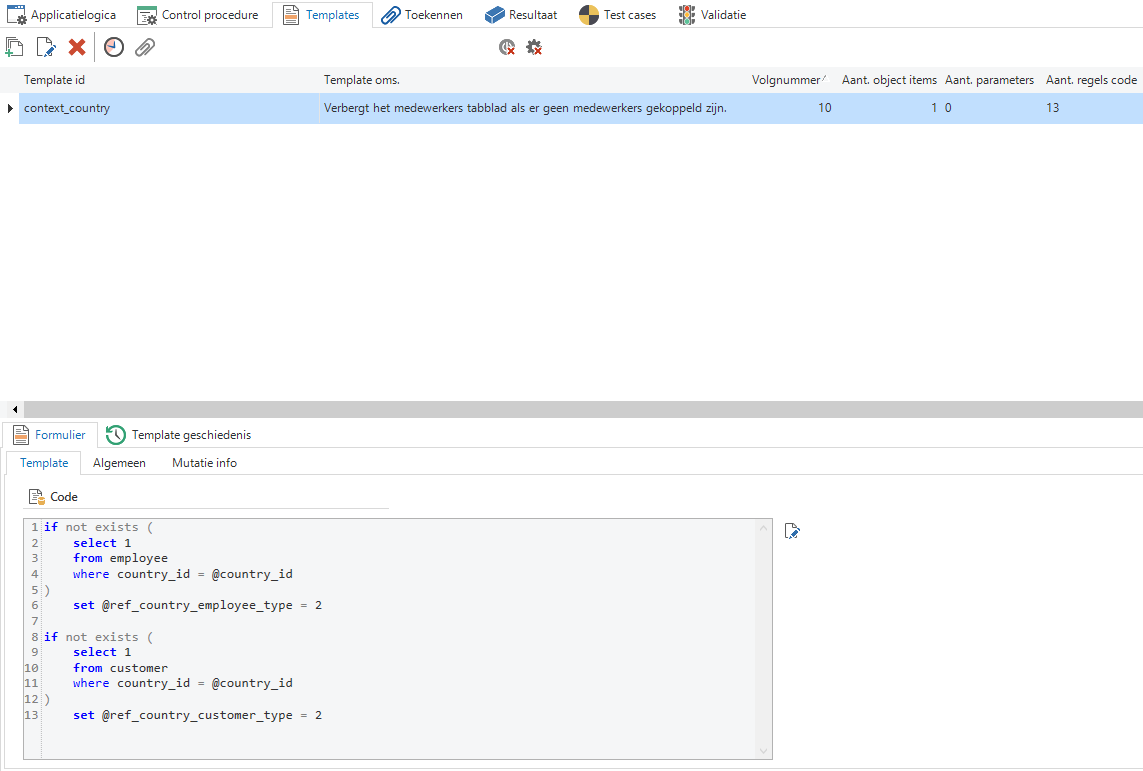
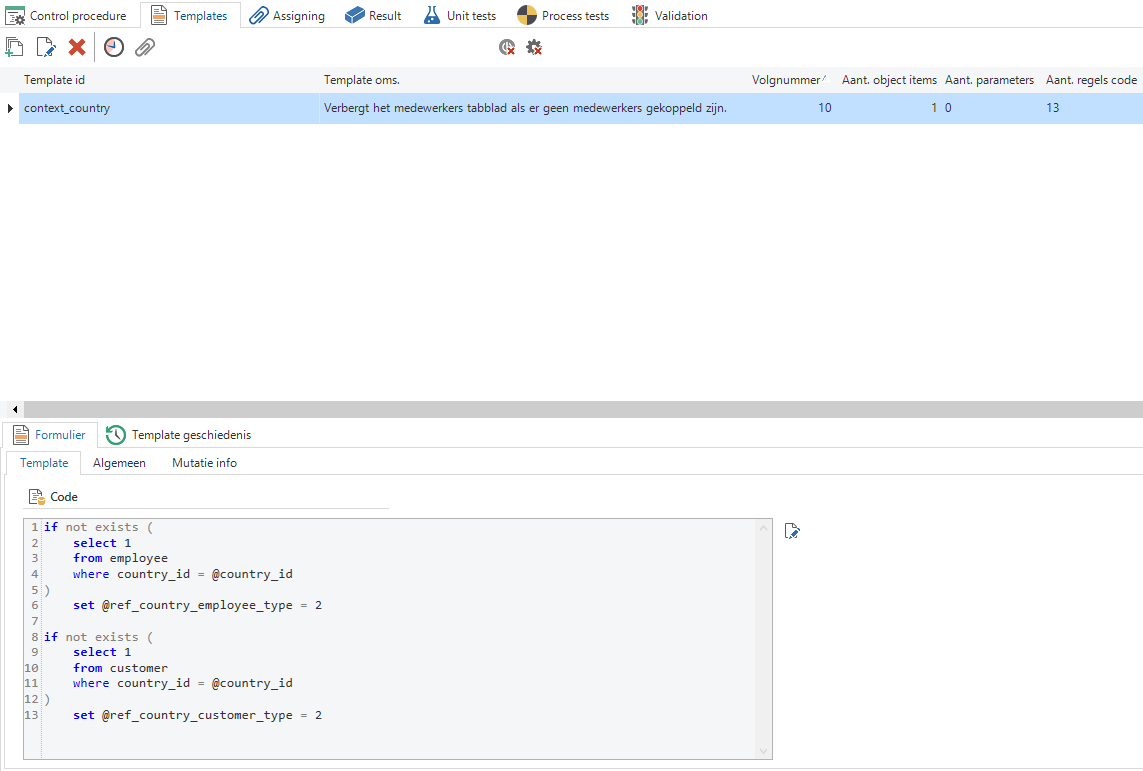
Changes images and added reference to unit tests

Changed region(s): [[0.0, 0.0, 0.643, 0.0311]]

diff --git a/docs/sf/functionality.md b/docs/sf/functionality.md
@@ -14,7 +14,9 @@ The functionality screen consists of six components:
 
 - Result - This is where the program objects, which make use of the template, are (re)generated and can be applied. You can also perform a static code analysis of the generated program objects.
 
-- Test cases - Here you can create test cases for your business logic. See [test cases](test_cases).
+- Unit tests - The place to create, maintain and run unit tests. See [unit tests](unit_test)
+
+- Process tests - Here you can create test cases for your business logic. See [test cases](test_cases).
 
 - Validation - This tab shows any validation messages regarding the selected business logic. 
 
